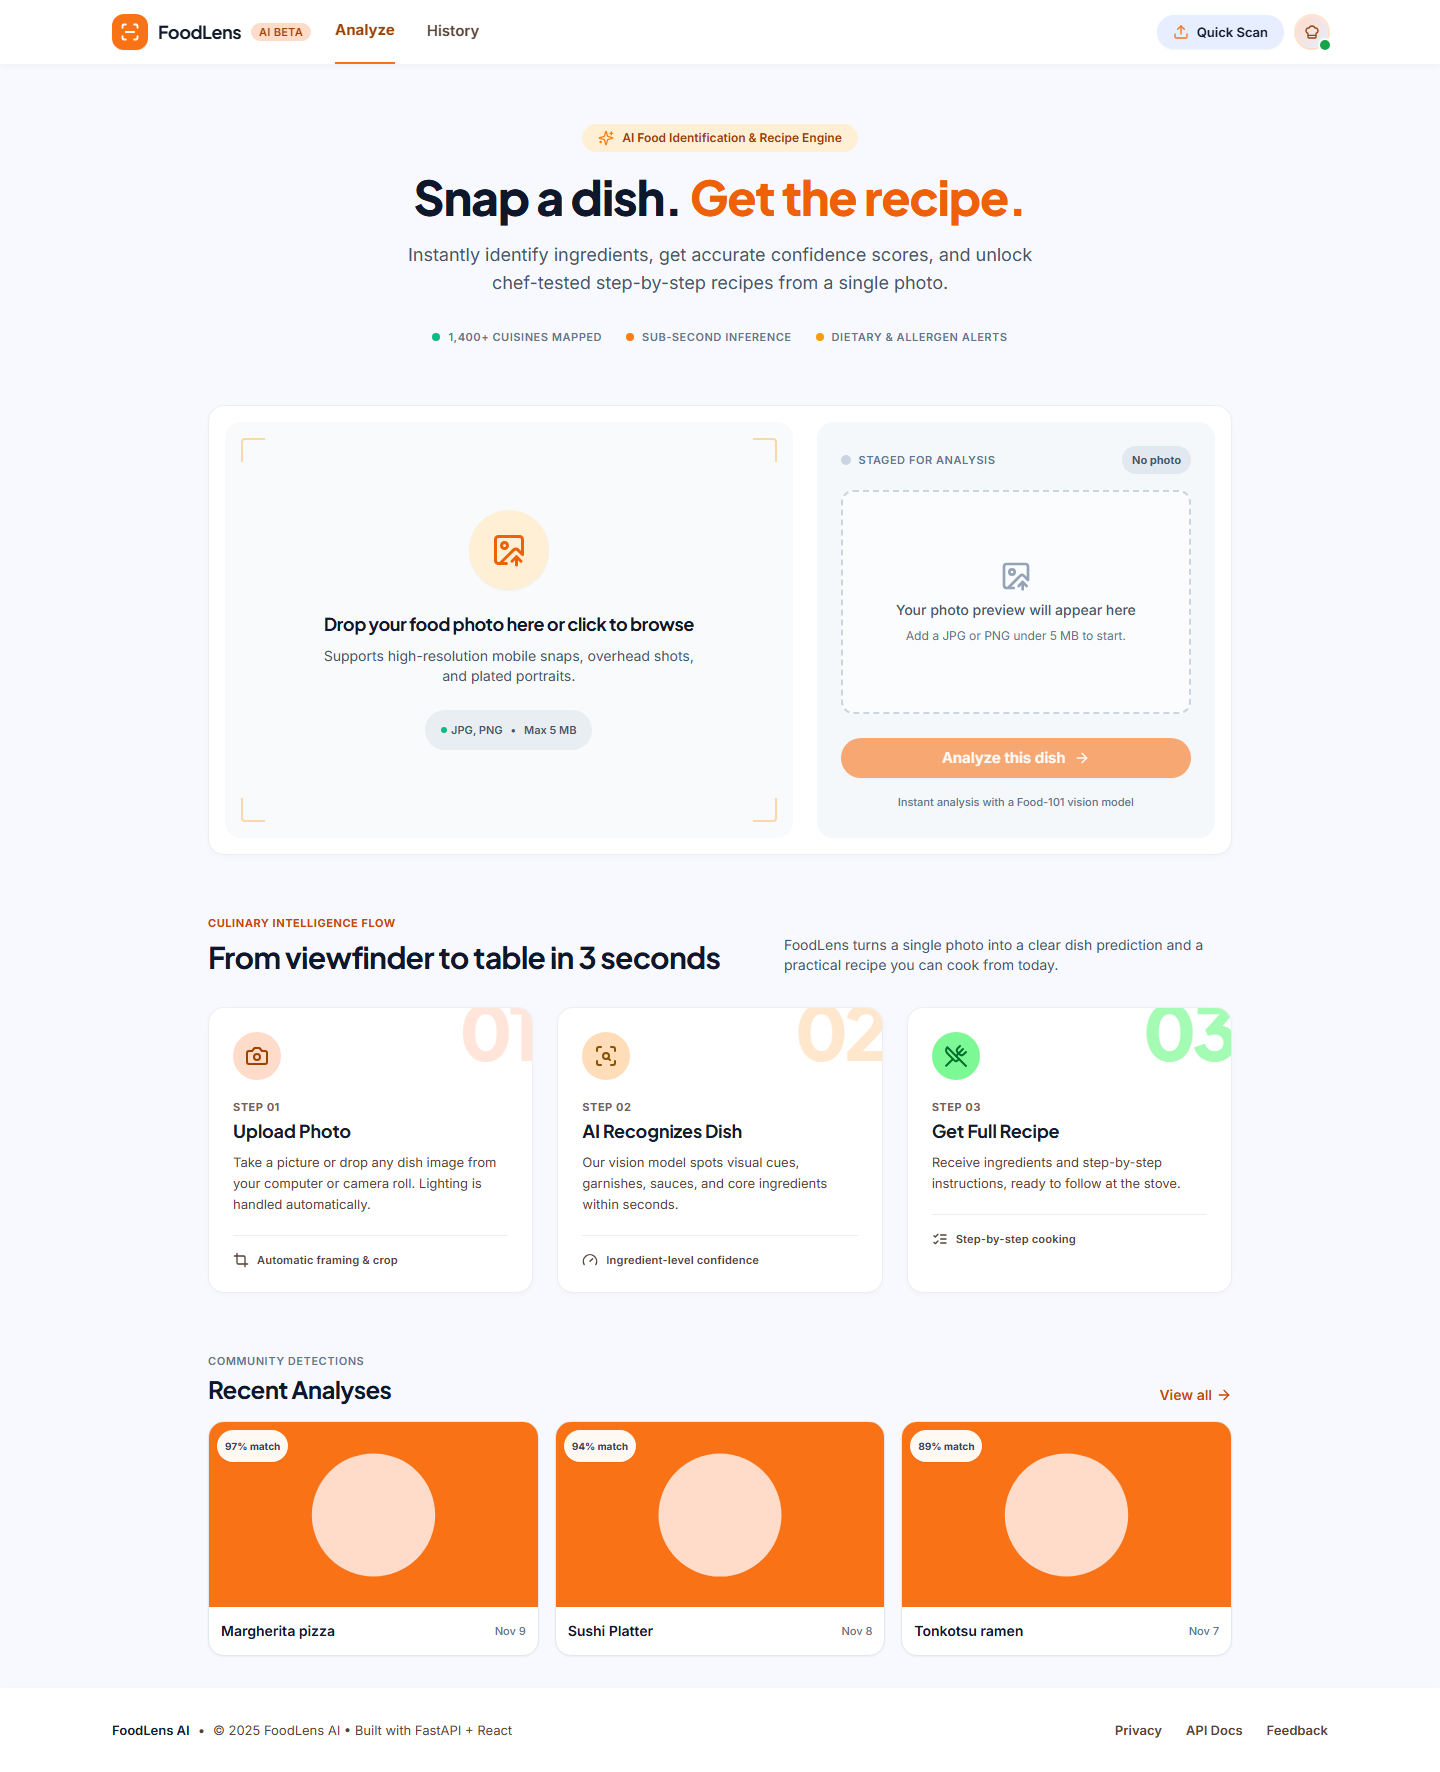
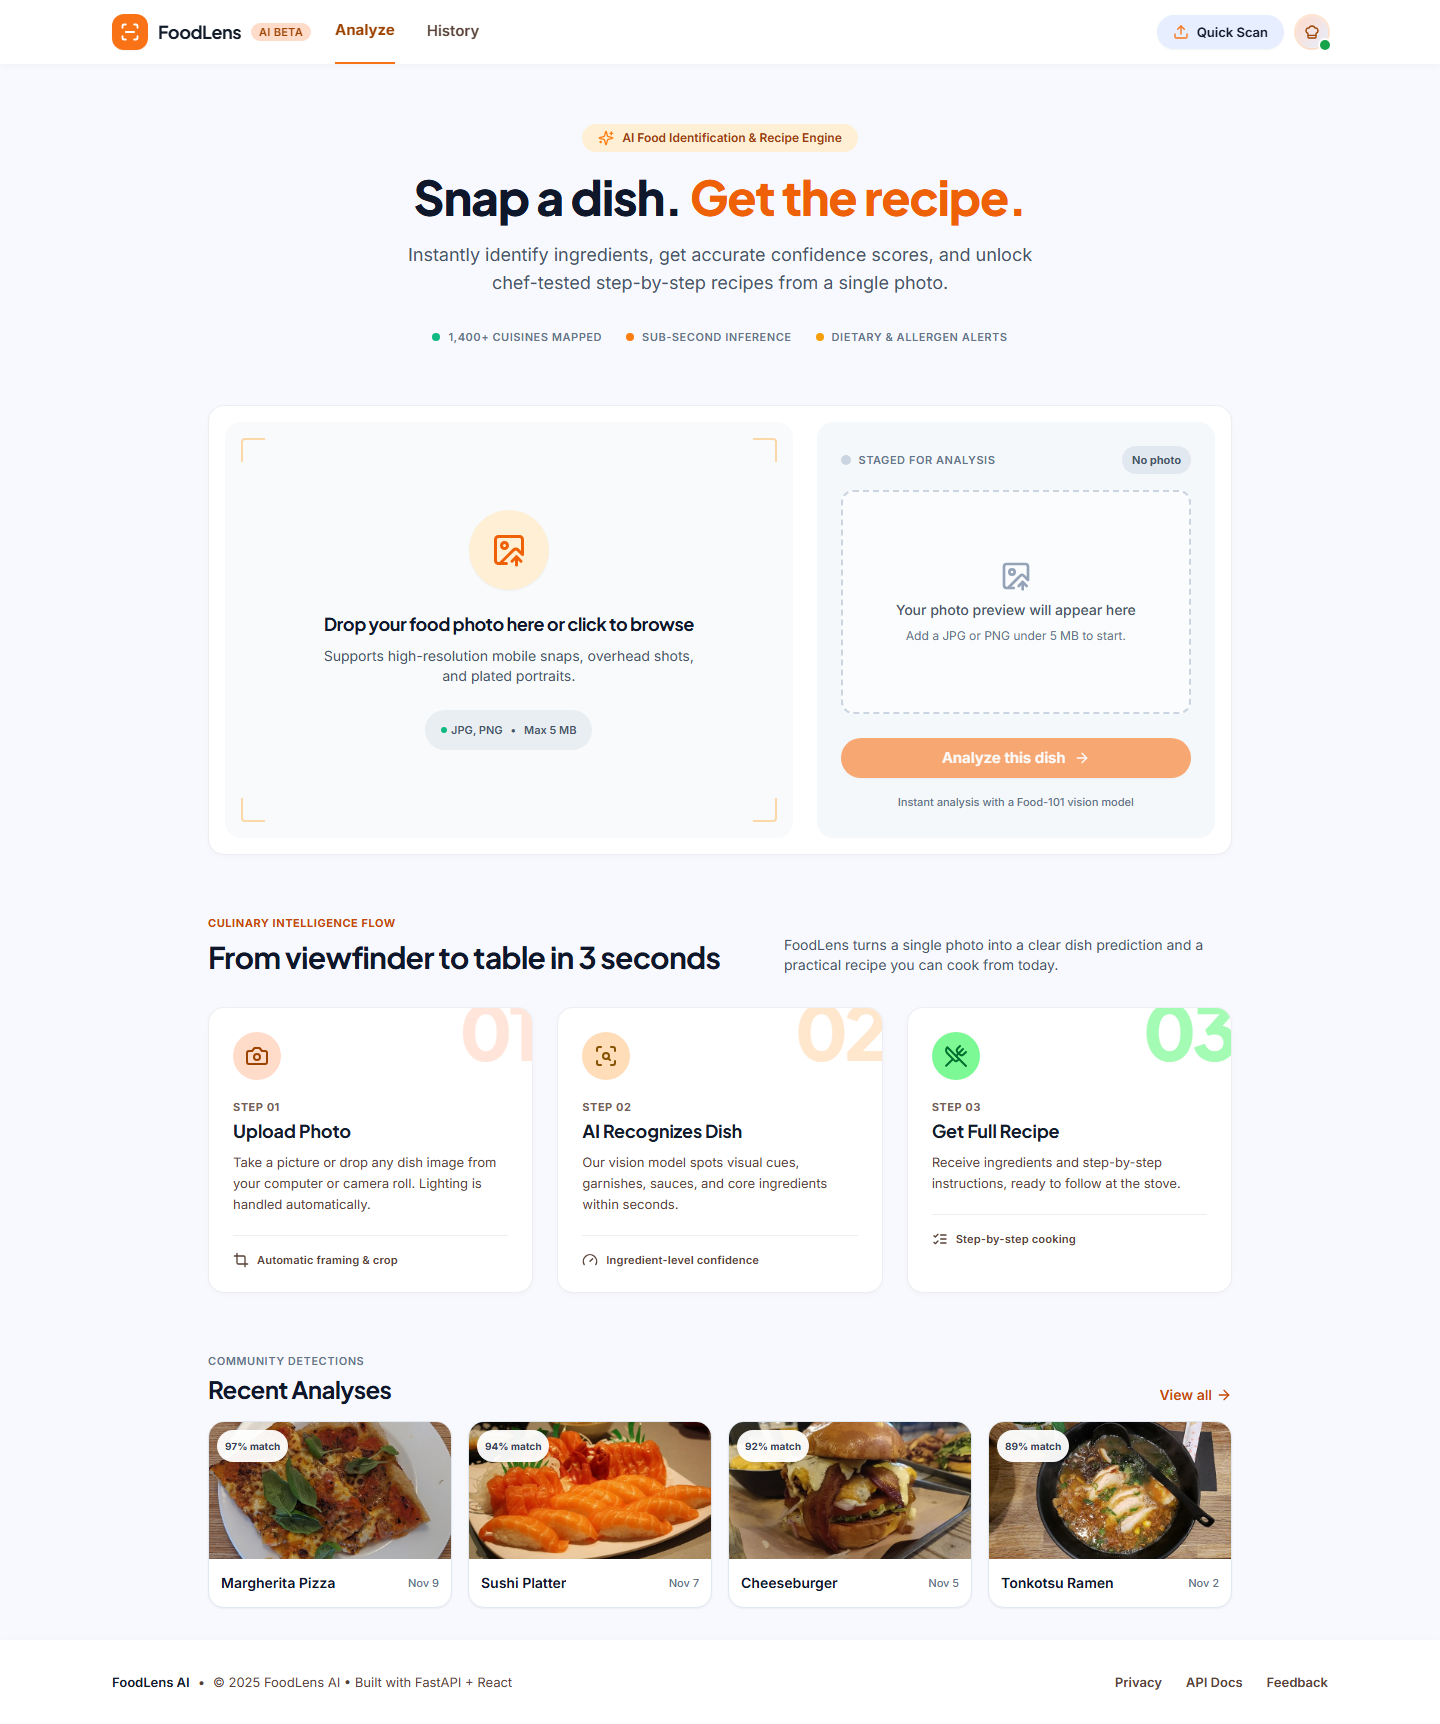
docs: document test workflow and refresh screenshots

diff --git a/README.md b/README.md
@@ -201,10 +201,15 @@ frontend/
 cd frontend
 npm test                    # Vitest + React Testing Library
 npm run test:watch
+npm run lint                # ESLint
 npx playwright install chromium
-npm run test:e2e            # Playwright, Chromium
+npm run test:e2e            # Playwright, Chromium (network-mocked)
+PLAYWRIGHT_BASE_URL=http://127.0.0.1:5173 REAL_API_ORIGIN=http://127.0.0.1:8000 REAL_STACK=1 npm run test:e2e -- e2e/real-stack.spec.ts
 npm run screenshots         # regenerate docs/screenshots (needs npm run dev)
 ```
+
+The real-stack spec is skipped by default. Point it at a running Compose app and set
+`REAL_STACK=1` to exercise the classifier, LLM, PostgreSQL and uploads folder end to end.
 
 The unit suite covers `ConfidenceBadge` boundary values (0.40 and 0.75), `ConfirmDialog` focus and dismissal behavior, History filtering, sorting, optimistic deletion and rollback, and the `ErrorBoundary` fallback. The Playwright suite covers seeded History search/delete, upload-to-result, and overflow checks at 390, 768 and 1440 px.
 
@@ -345,7 +350,7 @@ VITE_USE_MOCK=true npm run dev
 ```text
 foodlens/
   docker-compose.yml
-  docker-compose.prod.yml           # api + db for production-like runs
+  docker-compose.prod.yml           # nginx frontend + Gunicorn API + PostgreSQL
   .env.example
   README.md
   DEMO.md
@@ -356,6 +361,7 @@ foodlens/
     alembic/
       versions/20261109_0001_create_analyses.py
       versions/20261109_0002_rename_image_url.py
+      versions/20261109_0003_jsonb_payloads.py
     app/
       main.py                     # FastAPI app, lifespan, /uploads mount
       core/config.py              # environment settings
